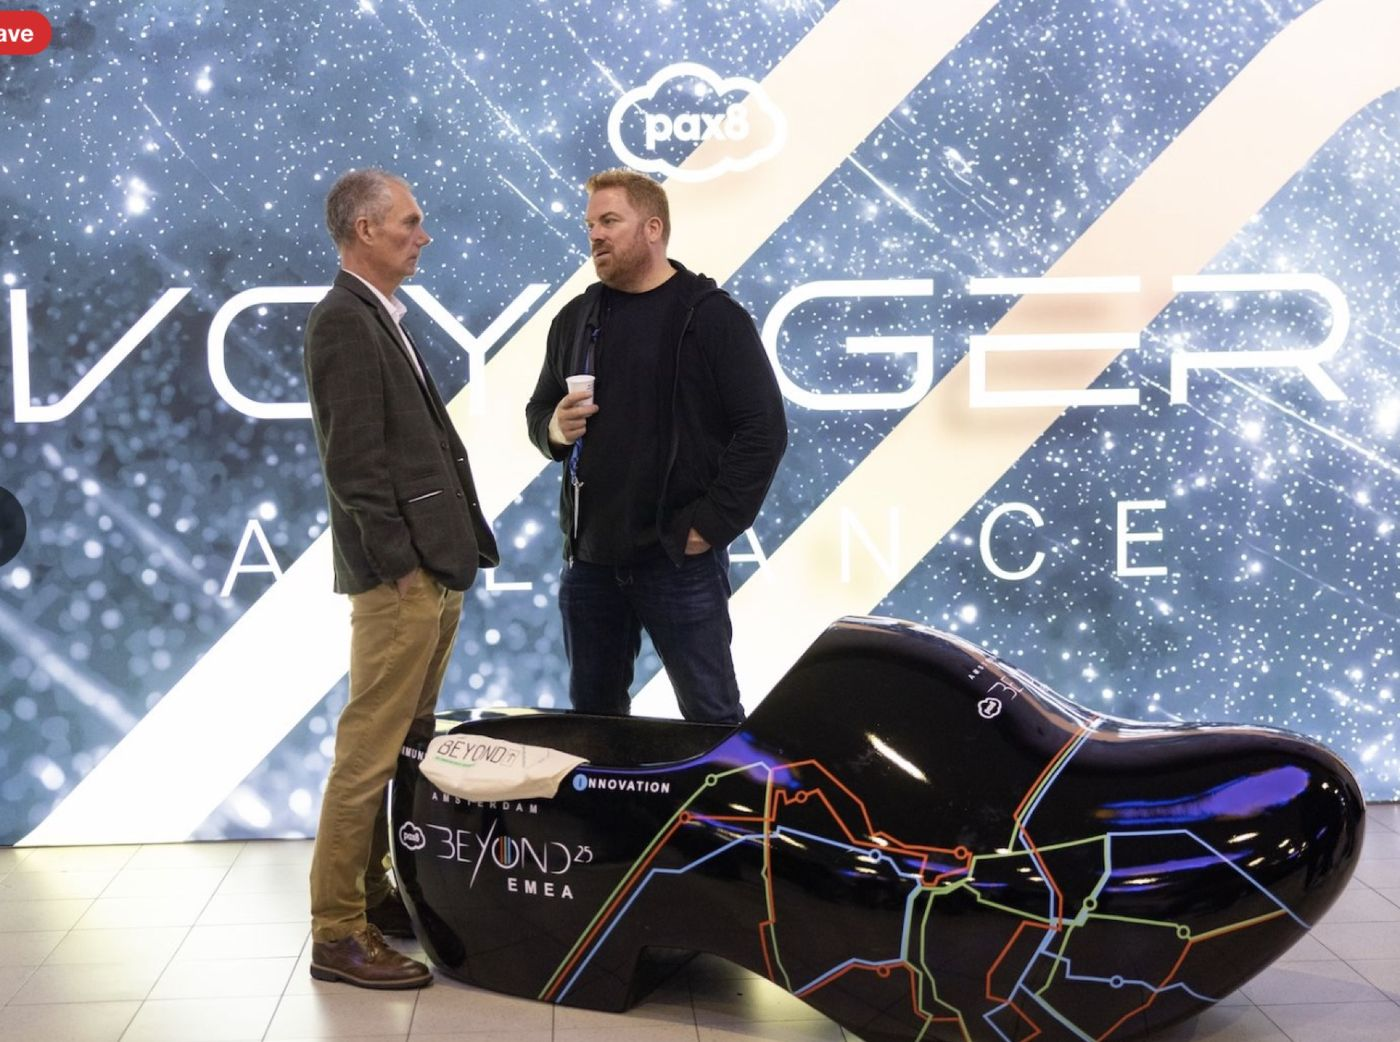
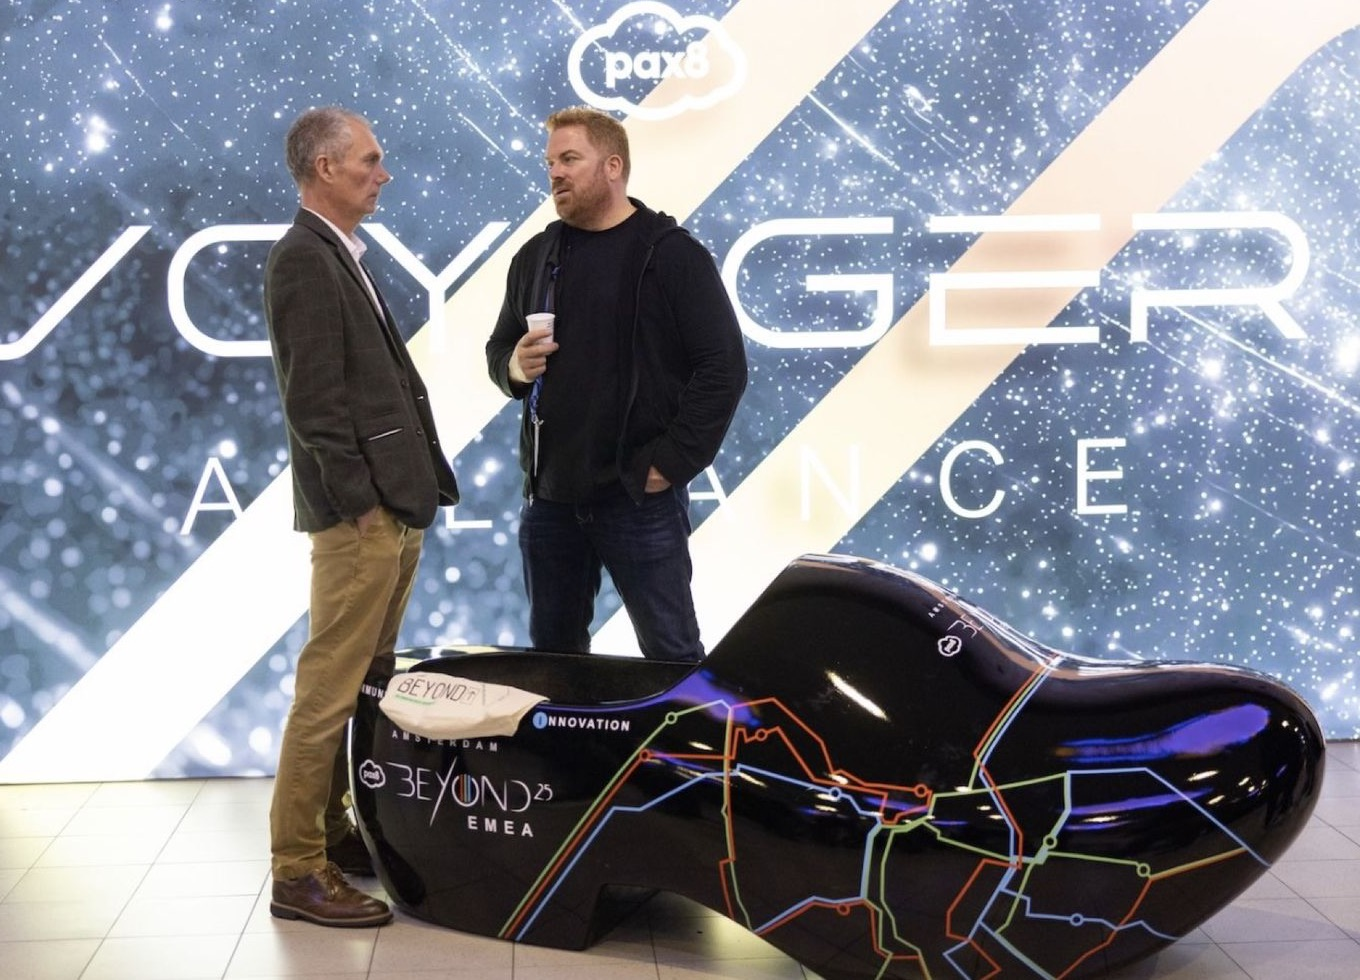
Polish: About nav state, case-study scroll, illustration cards, Voyager cleanup
- Home header highlights About while the About panel is open
- Switching case studies from the tab bar opens the new one at its top;
  the compact tab bar is opaque in light mode
- Light-mode heroes fade into the page with no seam (Principles, case
  studies)
- Illustration: artwork as small framed cards, two projects per row;
  Looney Zuni and Characters and portraits removed
- Voyager teaser: cropped a private Slack channel name off the keynote
  photo and an app button off the booth photo; removed a draft
  confirm marker

diff --git a/work/illustration.html b/work/illustration.html
@@ -18,7 +18,7 @@
   <link rel="preconnect" href="https://fonts.googleapis.com">
   <link rel="preconnect" href="https://fonts.gstatic.com" crossorigin>
   <link href="https://fonts.googleapis.com/css2?family=IBM+Plex+Mono:wght@400;500;600&family=Inter:wght@400;500;600;700&family=Space+Grotesk:wght@500;600;700&display=swap" rel="stylesheet">
-  <link rel="stylesheet" href="../styles.css?v=hf102">
+  <link rel="stylesheet" href="../styles.css?v=hf112">
   <script src="../theme.js?v=2"></script>
 </head>
 <body>
@@ -76,53 +76,46 @@
       </div>
     </section>
     <div class="cs-body sheet">
-      <section class="cs-section spread ill-proj" id="posters" style="--span:12">
+      <section class="cs-section spread ill-proj" id="posters" style="--span:6">
         <h2>Posters</h2>
         <div class="content">
           <p class="big">Travel posters, a winery, and a board game for dogs.</p>
           <div class="ill-row"><div class="photo"><img src="../assets/ill-union-station-hd.jpg" alt="Union Station travel poster with the station facade framed by orange flowers" loading="lazy"></div><div class="photo"><img src="../assets/ill-orange-wine.png" alt="Detailed isometric illustration of an orange wine winery with vineyards, barrels, and bottles" loading="lazy" style="object-position: center 30%"></div><div class="panel" style="--bg: var(--sky)"><img src="../assets/ill-barkopoly-cut.png" alt="Barkopoly, a dog-themed parody of a property trading board game" loading="lazy"></div></div>
         </div>
       </section>
-      <section class="cs-section spread ill-proj" id="pax8" style="--span:12">
+      <section class="cs-section spread ill-proj" id="pax8" style="--span:6">
         <h2>Pax8 · Product &amp; Engineering</h2>
         <div class="content">
           <p class="big">Lettering, badges, and swag for a product and engineering department.</p>
           <div class="ill-row ill-row--one"><div class="panel" style="--bg: #1e2019"><img src="../assets/brand-pax8-stickers.jpg" alt="A sheet of colourful Product &amp; Engineering stickers and badges" loading="lazy"></div></div><div class="ill-row"><div class="photo"><img src="../assets/brand-pax8-poster.jpg" alt="Product &amp; Engineering poster with Pax8 laptop, iced coffee, donuts, and a blimp under a blue sky" loading="lazy"></div><div class="panel" style="--bg: #70cef1"><img src="../assets/ill-pax8-product-engineering.png" alt="Script lettering reading Product &amp; Engineering" loading="lazy"></div><div class="panel" style="--bg: #ebe3c7"><img src="../assets/ill-swag-badges.png" alt="A grid of badge and stamp designs" loading="lazy"></div></div>
         </div>
       </section>
-      <section class="cs-section spread ill-proj" id="treehouse" style="--span:12">
+      <section class="cs-section spread ill-proj" id="treehouse" style="--span:6">
         <h2>Treehouse Therapy</h2>
         <div class="content">
           <p class="big">A friendly treehouse mark for an ABA therapy practice.</p>
           <div class="ill-row ill-row--lead"><div class="panel" style="--bg: #f8edeb"><div class="set" style="--cols: 3"><img src="../assets/brand/treehouse-01.png" alt="Treehouse Therapy logo exploration" loading="lazy"><img src="../assets/brand/treehouse-03.png" alt="Treehouse Therapy logo exploration" loading="lazy"><img src="../assets/brand/treehouse-05.png" alt="Treehouse Therapy logo exploration" loading="lazy"><img src="../assets/brand/treehouse-07.png" alt="Treehouse Therapy logo exploration" loading="lazy"><img src="../assets/brand/treehouse-09.png" alt="Treehouse Therapy logo exploration" loading="lazy"><img src="../assets/brand/treehouse-11.png" alt="Treehouse Therapy logo exploration" loading="lazy"></div></div><div class="photo"><img src="../assets/brand-treehouse-sign.jpg" alt="Illuminated round shop sign with the Treehouse Therapy treehouse logo" loading="lazy"></div><div class="panel" style="--bg: #f8edeb"><img src="../assets/brand/treehouse-13.png" alt="Treehouse ABA Therapy logo with hand-lettered name" loading="lazy"></div></div>
         </div>
       </section>
-      <section class="cs-section spread ill-proj" id="tonic-timber" style="--span:12">
+      <section class="cs-section spread ill-proj" id="tonic-timber" style="--span:6">
         <h2>Tonic &amp; Timber</h2>
         <div class="content">
           <p class="big">Wordmarks and a badge for a bar in a converted trailer.</p>
           <div class="ill-row ill-row--lead"><div class="panel" style="--bg: #000"><div class="set" style="--cols: 2"><img src="../assets/brand/tonic-05.png" alt="Tonic &amp; Timber wordmark exploration" loading="lazy"><img src="../assets/brand/tonic-07.png" alt="Tonic &amp; Timber wordmark exploration" loading="lazy"><img src="../assets/brand/tonic-09.png" alt="Tonic &amp; Timber wordmark exploration" loading="lazy"><img src="../assets/brand/tonic-10.png" alt="Tonic &amp; Timber wordmark exploration" loading="lazy"><img src="../assets/brand/tonic-14.png" alt="Tonic &amp; Timber wordmark exploration" loading="lazy"><img src="../assets/brand/tonic-15.png" alt="Tonic &amp; Timber wordmark exploration" loading="lazy"></div></div><div class="photo"><img src="../assets/brand-tonic-timber-trailer.jpg" alt="A converted trailer bar with the Tonic &amp; Timber logo on its side" loading="lazy"></div><div class="panel" style="--bg: #000"><img src="../assets/brand/tonic-08.png" alt="Tonic &amp; Timber script logo in a black circle" loading="lazy"></div></div>
         </div>
       </section>
-      <section class="cs-section spread ill-proj" id="books-for-baby" style="--span:12">
+      <section class="cs-section spread ill-proj" id="books-for-baby" style="--span:6">
         <h2>Books for Baby</h2>
         <div class="content">
           <p class="big">A cast of storybook animals and a print to go with them.</p>
           <div class="ill-row ill-row--split"><div class="panel" style="--bg: #ebe3c7"><div class="set" style="--cols: 4"><img src="../assets/brand/books-02.png" alt="Storybook animal character" loading="lazy"><img src="../assets/brand/books-06.png" alt="Storybook animal character" loading="lazy"><img src="../assets/brand/books-08.png" alt="Storybook animal character" loading="lazy"><img src="../assets/brand/books-10.png" alt="Storybook animal character" loading="lazy"><img src="../assets/brand/books-12.png" alt="Storybook animal character" loading="lazy"><img src="../assets/brand/books-16.png" alt="Storybook animal character" loading="lazy"><img src="../assets/brand/books-22.png" alt="Storybook animal character" loading="lazy"><img src="../assets/brand/books-24.png" alt="Storybook animal character" loading="lazy"><img src="../assets/brand/books-26.png" alt="Storybook animal character" loading="lazy"><img src="../assets/brand/books-28.png" alt="Storybook animal character" loading="lazy"><img src="../assets/brand/books-32.png" alt="Storybook animal character" loading="lazy"><img src="../assets/brand/books-34.png" alt="Storybook animal character" loading="lazy"></div></div><div class="photo"><img src="../assets/brand-books-for-baby-print.jpg" alt="Framed Books for Baby print on a nursery shelf" loading="lazy"></div></div>
         </div>
       </section>
-      <section class="cs-section spread ill-proj" id="copper-fox" style="--span:12">
+      <section class="cs-section spread ill-proj" id="copper-fox" style="--span:6">
         <h2>Copper Fox / Pine &amp; Peak</h2>
         <div class="content">
           <p class="big">Two names for one brand, explored side by side.</p>
           <div class="ill-row ill-row--split"><div class="panel" style="--bg: #fffff1"><img src="../assets/brand-copper-fox-pine-peak.png" alt="Logo sheet exploring two names, Copper Fox and Pine &amp; Peak, in blue" loading="lazy"></div><div class="photo"><img src="../assets/brand-pine-peak-bags.jpg" alt="Two people holding Pine &amp; Peak paper bags, with a beagle at their feet" loading="lazy" style="object-position: center 35%"></div></div>
-        </div>
-      </section>
-      <section class="cs-section spread ill-proj" id="looney-zuni" style="--span:6">
-        <h2>Looney Zuni</h2>
-        <div class="content">
-          <p class="big">A logo and coaster for a home cocktail lounge.</p>
-          <div class="ill-row"><div class="panel" style="--bg: #f6d9cf"><img src="../assets/ill-looney-zuni-logo.png" alt="Looney Zuni Cocktail Lounge logo in red script, with a cocktail glass and the line Home of wild and crazy kids" loading="lazy"></div><div class="panel" style="--bg: var(--lilac)"><img src="../assets/ill-hot-tub-club-cut.png" alt="Round coaster reading Looney Zuni Hot Tub, with a rainbow and mountains" loading="lazy"></div></div>
         </div>
       </section>
       <section class="cs-section spread ill-proj" id="lajit" style="--span:6">
@@ -144,13 +137,6 @@
         <div class="content">
           <p class="big">Wordmark explorations.</p>
           <div class="ill-row ill-row--one"><div class="panel" style="--bg: #1e2019"><div class="set" style="--cols: 2"><img src="../assets/brand/mgh-00.png" alt="My Girlfriend&#x27;s Hungry wordmark exploration" loading="lazy"><img src="../assets/brand/mgh-01.png" alt="My Girlfriend&#x27;s Hungry wordmark exploration" loading="lazy"><img src="../assets/brand/mgh-02.png" alt="My Girlfriend&#x27;s Hungry wordmark exploration" loading="lazy"><img src="../assets/brand/mgh-03.png" alt="My Girlfriend&#x27;s Hungry wordmark exploration" loading="lazy"><img src="../assets/brand/mgh-04.png" alt="My Girlfriend&#x27;s Hungry wordmark exploration" loading="lazy"><img src="../assets/brand/mgh-05.png" alt="My Girlfriend&#x27;s Hungry wordmark exploration" loading="lazy"></div></div></div>
-        </div>
-      </section>
-      <section class="cs-section spread ill-proj" id="characters" style="--span:12">
-        <h2>Characters and portraits</h2>
-        <div class="content">
-          <p class="big">Stickers, a sock monkey, and a lot of dogs.</p>
-          <div class="ill-row"><div class="panel" style="--bg: var(--lime)"><img src="../assets/ill-chill-chip-cut.png" alt="A tortilla chip character relaxing in a bowl of queso" loading="lazy"></div><div class="panel" style="--bg: var(--pink)"><img src="../assets/ill-sock-monkey-cut.png" alt="A sock monkey face in a red knit hat" loading="lazy"></div><div class="panel" style="--bg: var(--teal)"><img src="../assets/ill-beagle-rug-cut.png" alt="A beagle sitting on a round blue rug" loading="lazy"></div><div class="panel" style="--bg: var(--card)"><img src="../assets/ill-portrait-couple.png" alt="Line-drawn portrait of a smiling couple in glasses and caps, hugging their husky between them" loading="lazy"></div></div>
         </div>
       </section>
     </div>

diff --git a/styles.css b/styles.css
@@ -4255,3 +4255,83 @@ html[data-theme="light"] .lookback, html[data-theme="light"] .sheet > .spread.lo
     box-shadow: none;
   }
 }
+
+/* Day heroes melt into the page: no rule, no glow pinned to the bottom
+   edge, and the last stretch fades to Ivory so there is no seam */
+html[data-theme="light"] .cs-hero { border-bottom: 0 !important; }
+html[data-theme="light"] .cs-hero[style*="--c-intro"] {
+  background:
+    radial-gradient(55% 70% at 100% 0%, color-mix(in srgb, var(--tone) 22%, transparent) 0%, transparent 70%),
+    radial-gradient(45% 55% at 0% 0%, rgba(246, 197, 58, .10) 0%, transparent 70%),
+    linear-gradient(180deg, transparent 0%, transparent 100%) !important;
+}
+html[data-theme="light"] .cs-hero:not([style*="--c-intro"]) {
+  background:
+    linear-gradient(180deg, transparent 0%, transparent 45%, var(--paper) 82%),
+    linear-gradient(90deg, var(--paper) 0%, var(--paper) 40%, transparent 100%),
+    linear-gradient(180deg, color-mix(in srgb, var(--tone) 14%, var(--paper)) 0%, color-mix(in srgb, var(--tone) 34%, var(--paper)) 100%) !important;
+}
+/* Let the page show through below the hero so the two never meet on a
+   painted seam (a hairline appeared at fractional zoom levels) */
+html[data-theme="light"] .cs-body.sheet { background: transparent !important; }
+/* Home: Work and About take turns being the current link */
+.site-header nav a:first-child[aria-current="page"] { color: var(--lime); }
+html[data-theme="light"] .site-header nav a:first-child[aria-current="page"] { color: var(--ink); }
+/* Compact tab bar (while reading a case study): opaque, so the page never
+   shows through; each tab keeps a light wash of its colour */
+html[data-theme="light"] .tenets.is-compact { background: var(--paper) !important; }
+html[data-theme="light"] .tenets.is-compact .tenet:not(.is-open) {
+  background: linear-gradient(180deg, var(--paper) 0%, color-mix(in srgb, var(--tone) 16%, var(--paper)) 100%) !important;
+  box-shadow: none;
+}
+html[data-theme="light"] .tenets.is-compact .tenet.is-open { background: var(--card) !important; }
+
+/* =====================================================================
+   ILLUSTRATION: project artwork as small framed cards, the same size and
+   feel as the collage at the top of the page (white frame, soft shadow,
+   a slight tilt) instead of full-width panels.
+   ===================================================================== */
+.ill-proj .ill-row {
+  display: flex; flex-wrap: wrap; align-items: center; gap: 1.75rem 1.5rem;
+  margin-top: 1.75rem; padding: 7px;
+}
+.ill-proj .ill-row:last-child { flex: none; }
+.ill-proj .ill-row .panel, .ill-proj .ill-row .photo {
+  flex: 0 0 auto; min-height: 0; height: 11rem;
+  border: 7px solid #fff; border-radius: 12px;
+  box-shadow: 0 1px 2px rgba(0, 0, 0, .12), 0 14px 28px rgba(0, 0, 0, .16);
+  transform: rotate(var(--tilt, -1.5deg));
+  transition: transform .3s var(--ease);
+}
+.ill-proj .ill-row > :nth-child(even) { --tilt: 1.5deg; }
+.ill-proj .ill-row > :nth-child(3n) { --tilt: -.75deg; }
+.ill-proj .ill-row .panel:hover, .ill-proj .ill-row .photo:hover { transform: rotate(0deg) translateY(-4px); }
+.ill-proj .ill-row .photo { width: 14.5rem; }
+.ill-proj .ill-row .panel { padding: .9rem; max-width: 22rem; }
+.ill-proj .ill-row .panel > img { max-height: 100%; max-width: 100%; }
+.ill-proj .ill-row .panel:has(.set) { height: auto; min-height: 11rem; width: 22rem; }
+.ill-proj .ill-row .set { gap: .6rem; }
+.ill-proj .ill-row .set img { max-height: 3.25rem; }
+html[data-theme="light"] .ill-proj .ill-row .panel,
+html[data-theme="light"] .ill-proj .ill-row .photo { box-shadow: 0 1px 2px rgba(16, 39, 31, .1), 0 14px 28px rgba(16, 39, 31, .12); }
+@media (max-width: 760px) {
+  .ill-proj .ill-row { justify-content: center; }
+}
+/* A project's rows flow side by side instead of stacking */
+.sheet > .ill-proj > .content { display: block; }
+.ill-proj .ill-row { display: inline-flex; vertical-align: middle; margin-right: 1.5rem; }
+.ill-proj .ill-row + .ill-row { margin-top: 1.75rem; }
+.ill-proj .ill-row .panel > img { height: 100%; width: auto; max-width: 20rem; object-fit: contain; }
+.ill-proj .ill-row .panel:not(:has(.set)) { min-width: 8rem; }
+/* All of a project's cards flow together in one wrapping row */
+.sheet > .ill-proj > .content { display: flex; flex-direction: row; flex-wrap: wrap; align-items: center; gap: 1.6rem 1.4rem; align-content: flex-start; }
+.sheet > .ill-proj > .content > :not(.ill-row) { flex: 0 0 100%; margin-bottom: 0; }
+.ill-proj .ill-row, .ill-proj .ill-row + .ill-row { display: contents; }
+.sheet > .ill-proj > .content > .ill-row:first-of-type > :first-child { margin-left: 7px; }
+/* The gradient stops short of the hero's edge; the last stretch is plain
+   Ivory, so there is no hairline where the hero meets the page */
+html[data-theme="light"] .cs-hero.cs-hero:is([style*="--c-intro"], :not([style*="--c-intro"])) {
+  background-color: var(--paper) !important;
+  background-size: 100% 82% !important;
+  background-repeat: no-repeat !important;
+}

diff --git a/main.js b/main.js
@@ -50,11 +50,18 @@
     });
     if (focus) tabs[index].focus();
 
+    // Header: About lights up while the About panel is open, Work otherwise.
+    const onAbout = tenets[index].dataset.id === 'about';
+    document.querySelectorAll('.site-header nav a[href="#intro"], .site-header nav a[href="#about"]').forEach(a => {
+      const current = (a.getAttribute('href') === '#about') === onAbout;
+      if (current) a.setAttribute('aria-current', 'page'); else a.removeAttribute('aria-current');
+    });
+
     // If a case study is showing, keep it in step with the open panel.
     const tenet = tenets[index];
     const link = tenet.querySelector('.read');
     if (shownId && shownId !== tenet.dataset.id) {
-      if (link) showDetail(tenet, { scroll: false });
+      if (link) showDetail(tenet, { jump: true }); // open the new case study at its top
       else hideDetail({ focusLink: false }); // Intro / About: back to the full accordion
     }
     if (updateHash) setHash(index === 0 ? '' : tenet.dataset.id + (shownId === tenet.dataset.id ? '/read' : ''));
@@ -81,7 +88,7 @@
     return frag;
   }
 
-  async function showDetail(tenet, { scroll = true } = {}) {
+  async function showDetail(tenet, { scroll = true, jump = false } = {}) {
     const link = tenet.querySelector('.read');
     if (!link) return;
     shownId = tenet.dataset.id;
@@ -107,7 +114,7 @@
     }
     setHash(tenet.dataset.id + '/read');
     if (scroll) {
-      detail.scrollIntoView({ behavior: scrollBehavior, block: 'start' });
+      detail.scrollIntoView({ behavior: jump ? 'auto' : scrollBehavior, block: 'start' });
       detailBody.focus({ preventScroll: true });
     }
   }

diff --git a/work/voyager-alliance.html b/work/voyager-alliance.html
@@ -18,7 +18,7 @@
   <link rel="preconnect" href="https://fonts.googleapis.com">
   <link rel="preconnect" href="https://fonts.gstatic.com" crossorigin>
   <link href="https://fonts.googleapis.com/css2?family=IBM+Plex+Mono:wght@400;500;600&family=Inter:wght@400;500;600;700&family=Space+Grotesk:wght@500;600;700&display=swap" rel="stylesheet">
-  <link rel="stylesheet" href="../styles.css?v=hf102">
+  <link rel="stylesheet" href="../styles.css?v=hf112">
   <script src="../theme.js?v=2"></script>
   <script src="../tier-track.js?v=1" defer></script>
 </head>
@@ -226,7 +226,7 @@
         <img class="c-b" src="../assets/voyager-booth.jpg" alt="Two people talking at the Voyager Alliance booth at Beyond 2025, in front of a large Voyager Alliance sign." loading="lazy">
         <img class="c-c" src="../assets/voyager-booth-2026.jpg" alt="A tall Voyager Alliance sign at a booth, with a printed table of tier benefits in the foreground." loading="lazy">
         <img class="c-d" src="../assets/beyond-galactic-lounge.jpg" alt="A lounge at a Beyond event branded Galactic Partner in neon, with the Galactic tier symbol above a table of sneakers." loading="lazy">
-        <figcaption>Off the screen: the Beyond 2025 keynote and booth, a Voyager Alliance booth with the tier benefits table, and a Galactic Partner lounge. <mark class="confirm">Which event the last two photos are from</mark></figcaption>
+        <figcaption>Off the screen: the Beyond 2025 keynote and booth, a Voyager Alliance booth with the tier benefits table, and a Galactic Partner lounge.</figcaption>
       </figure>
     </div>
 

diff --git a/index.html b/index.html
@@ -19,7 +19,7 @@
   <link rel="preconnect" href="https://fonts.googleapis.com">
   <link rel="preconnect" href="https://fonts.gstatic.com" crossorigin>
   <link href="https://fonts.googleapis.com/css2?family=IBM+Plex+Mono:wght@400;500;600&family=Inter:wght@400;500;600;700&family=Space+Grotesk:wght@500;600;700&display=swap" rel="stylesheet">
-  <link rel="stylesheet" href="styles.css?v=hf102">
+  <link rel="stylesheet" href="styles.css?v=hf112">
   <script src="theme.js?v=2"></script>
   <script src="tier-track.js?v=1" defer></script>
   <script src="flow-card.js?v=1" defer></script>
@@ -233,6 +233,6 @@
     </ul>
   </footer>
 
-  <script src="main.js?v=20261012"></script>
+  <script src="main.js?v=20261015c"></script>
 </body>
 </html>

diff --git a/work/principles.html b/work/principles.html
@@ -18,7 +18,7 @@
   <link rel="preconnect" href="https://fonts.googleapis.com">
   <link rel="preconnect" href="https://fonts.gstatic.com" crossorigin>
   <link href="https://fonts.googleapis.com/css2?family=Anton&family=Instrument+Serif:ital@0;1&family=IBM+Plex+Mono:wght@400;500;600&family=Inter:wght@400;500;600;700&family=Space+Grotesk:wght@500;600;700&display=swap" rel="stylesheet">
-  <link rel="stylesheet" href="../styles.css?v=hf102">
+  <link rel="stylesheet" href="../styles.css?v=hf112">
   <script src="../theme.js?v=2"></script>
 </head>
 <body>

diff --git a/work/archive.html b/work/archive.html
@@ -18,7 +18,7 @@
   <link rel="preconnect" href="https://fonts.googleapis.com">
   <link rel="preconnect" href="https://fonts.gstatic.com" crossorigin>
   <link href="https://fonts.googleapis.com/css2?family=IBM+Plex+Mono:wght@400;500;600&family=Inter:wght@400;500;600;700&family=Space+Grotesk:wght@500;600;700&display=swap" rel="stylesheet">
-  <link rel="stylesheet" href="../styles.css?v=hf102">
+  <link rel="stylesheet" href="../styles.css?v=hf112">
   <script src="../theme.js?v=2"></script>
 </head>
 <body>

diff --git a/work/designing-in-code.html b/work/designing-in-code.html
@@ -18,7 +18,7 @@
   <link rel="preconnect" href="https://fonts.googleapis.com">
   <link rel="preconnect" href="https://fonts.gstatic.com" crossorigin>
   <link href="https://fonts.googleapis.com/css2?family=IBM+Plex+Mono:wght@400;500;600&family=Inter:wght@400;500;600;700&family=Space+Grotesk:wght@500;600;700&display=swap" rel="stylesheet">
-  <link rel="stylesheet" href="../styles.css?v=hf102">
+  <link rel="stylesheet" href="../styles.css?v=hf112">
   <script src="../theme.js?v=2"></script>
 </head>
 <body>

diff --git a/work/homebot.html b/work/homebot.html
@@ -18,7 +18,7 @@
   <link rel="preconnect" href="https://fonts.googleapis.com">
   <link rel="preconnect" href="https://fonts.gstatic.com" crossorigin>
   <link href="https://fonts.googleapis.com/css2?family=IBM+Plex+Mono:wght@400;500;600&family=Inter:wght@400;500;600;700&family=Space+Grotesk:wght@500;600;700&display=swap" rel="stylesheet">
-  <link rel="stylesheet" href="../styles.css?v=hf102">
+  <link rel="stylesheet" href="../styles.css?v=hf112">
   <script src="../theme.js?v=2"></script>
 </head>
 <body>
